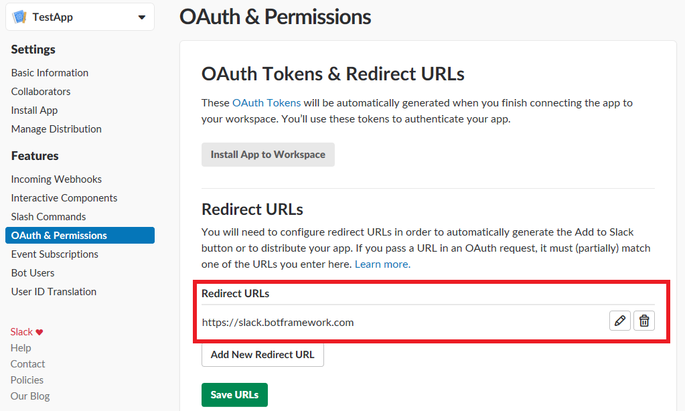
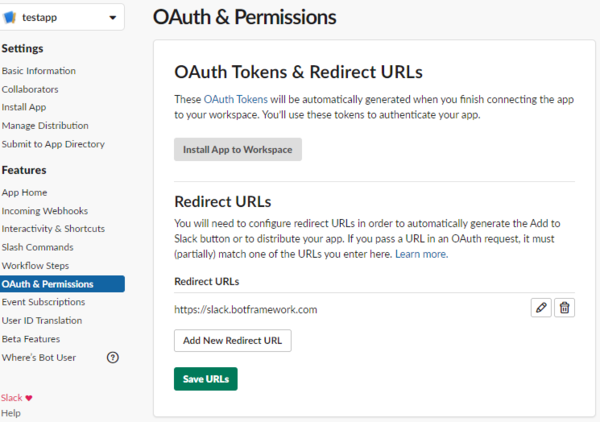
Fixed images and content.

diff --git a/articles/bot-service-channel-connect-slack.md b/articles/bot-service-channel-connect-slack.md
@@ -12,7 +12,7 @@ ms.date: 07/09/2020
 
 # Connect a bot to Slack
 
-There are two ways in which you can configure Slack messaging app:
+You can select one of the following choices to configure a **Slack app**:
 
 - Use Azure Bot Service portal to connect your bot
 - Use the Slack adapter
@@ -21,30 +21,31 @@ There are two ways in which you can configure Slack messaging app:
 
 ## Create a Slack application for your bot
 
-Log into [Slack](https://slack.com/signin) and then go to [create a Slack application](https://api.slack.com/apps) channel.
+1. In your browser, sign in [Slack](https://slack.com/signin).
+1. Navigate to [Your Apps](https://api.slack.com/apps) panel.
 
 ![Set up bot](~/media/channels/slack-NewApp.png)
 
-## Create an app and assign a Development Slack team
+### Create a Slack app and assign a Development Slack team
 
-Enter an App Name and select a Development Slack Team. If you are not already a member of a Development Slack Team, [create or join one](https://slack.com/).
+1. Click the **Create New App** button.
+1. In the **App Name** box, enter the name of your Slack application. 1. In the **Development Slack Team** box, enter the name of your development team. If you are not already a member of a Development Slack Team, [create or join one](https://slack.com/).
 
 ![Create app](~/media/channels/slack-CreateApp.png)
 
 Click **Create App**. Slack will create your app and generate a Client ID and Client Secret.
 
-## Add a new Redirect URL
+### Add a new Redirect URL
 
-Next you will add a new Redirect URL.
+1. In the left panel, select the **OAuth & Permissions** menu item.
+1. In the right panel, click the **Add a new Redirect URL**.
+1. In the box, enter [https://slack.botframework.com](https://slack.botframework.com).
+1. Click **Add**.
+1. Click **Save URLs**.
 
-1. Select the **OAuth & Permissions** tab.
-2. Click **Add a new Redirect URL**.
-3. Enter [https://slack.botframework.com](https://slack.botframework.com).
-4. Click **Add**.
-5. Click **Save URLs**.
+    ![Add Redirect URL](~/media/channels/slack-RedirectURL.png)
 
-![Add Redirect URL](~/media/channels/slack-RedirectURL.png)
-
+<!--
 ## Create a Slack Bot User
 
 Adding a Bot User allows you to assign a username for your bot and choose whether it is always shown as online.
@@ -57,8 +58,9 @@ Adding a Bot User allows you to assign a username for your bot and choose whethe
 Click **Add Bot User** to validate your settings, click **Always Show My Bot as Online** to **On**, and then click **Save Changes**.
 
 ![Slack CreateApp AddBotUser image](~/media/channels/slack-CreateApp-AddBotUser.png)
+-->
 
-## Subscribe to Bot Events
+### Subscribe to Bot Events
 
 Follow these steps to subscribe to six particular bot events. By subscribing to bot events, your app will be notified of user activities at the URL you specify.
 
@@ -67,20 +69,20 @@ Follow these steps to subscribe to six particular bot events. By subscribing to 
 > visit [https://dev.botframework.com/bots](https://dev.botframework.com/bots),
 > choose a bot, and record the name of the bot.
 
-1. Select the **Event Subscriptions** tab.
-2. Click **Enable Events** to **On**.
-3. In **Request URL**, enter `https://slack.botframework.com/api/Events/{YourBotHandle}`, where `{YourBotHandle}` is your bot handle, without the braces. The bot handle used in this example is **ContosoBot**.
+1. Select the **Event Subscriptions** item.
+1. Set **Enable Events** to **On**.
+1. In **Request URL**, enter `https://slack.botframework.com/api/Events/{YourBotHandle}`, where `{YourBotHandle}` is your bot handle, without the braces. The bot handle used in this example is **ContosoBot**.
 
    ![Subscribe Events: top](~/media/channels/slack-SubscribeEvents-a.png)
 
-4. In **Subscribe to Bot Events**, click **Add Bot User Event**.
-5. In the list of events, select these six event types:
-    * `member_joined_channel`
-    * `member_left_channel`
-    * `message.channels`
-    * `message.groups`
-    * `message.im`
-    * `message.mpim`
+1. In **Subscribe to Bot Events**, click **Add Bot User Event**.
+1. In the list of events, select these six event types:
+    - `member_joined_channel`
+    - `member_left_channel`
+    - `message.channels`
+    - `message.groups`
+    - `message.im`
+    - `message.mpim`
 
    ![Subscribe Events: middle](~/media/channels/slack-SubscribeEvents-b.png)
 
@@ -287,10 +289,10 @@ Now that you have created a Slack app and wired up the adapter in your bot proje
 To complete this step, [deploy your bot to Azure](https://aka.ms/bot-builder-deploy-az-cli) and make a note of the URL to your deployed bot.
 
 > [!NOTE]
-> If you are not ready to deploy your bot to Azure, or wish to debug your bot when using the Slack adapter, you can use a tool such as [ngrok](https://www.ngrok.com) (which you will likely already have installed if you have used the Bot Framework emulator previously) to tunnel through to your bot running locally and provide you with a publicly accessible URL for this. 
-> 
+> If you are not ready to deploy your bot to Azure, or wish to debug your bot when using the Slack adapter, you can use a tool such as [ngrok](https://www.ngrok.com) (which you will likely already have installed if you have used the Bot Framework emulator previously) to tunnel through to your bot running locally and provide you with a publicly accessible URL for this.
+>
 > If you wish create an ngrok tunnel and obtain a URL to your bot, use the following command in a terminal window (this assumes your local bot is running on port 3978, alter the port numbers in the command if your bot is not).
-> 
+>
 > ```
 > ngrok.exe http 3978 -host-header="localhost:3978"
 > ```
